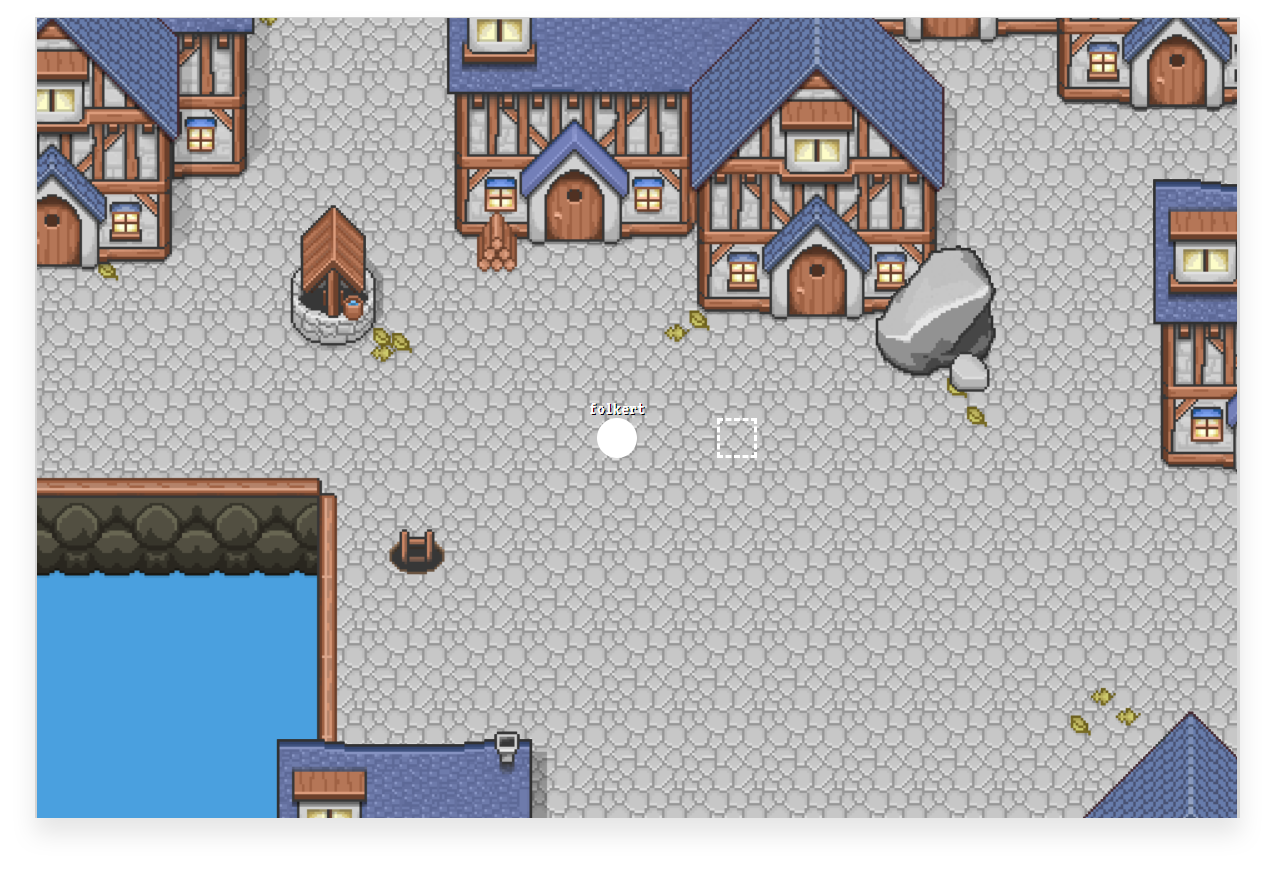
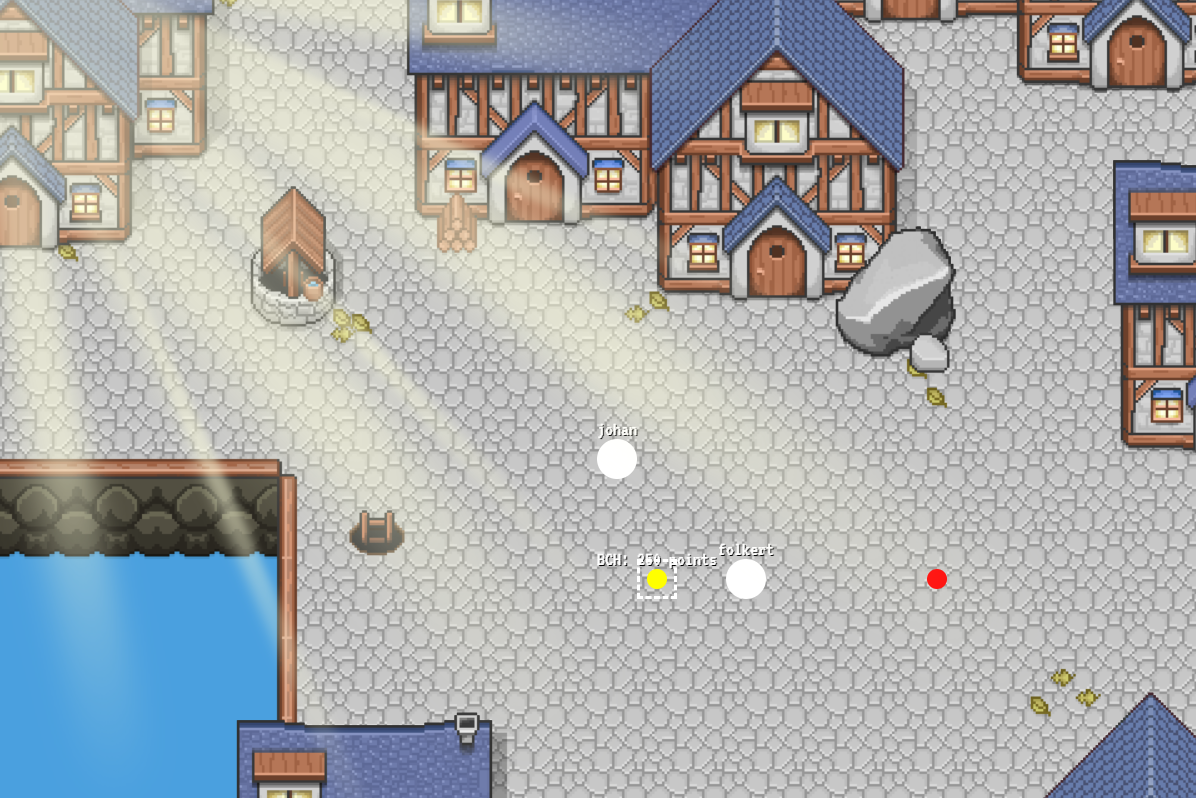
Updated README and docs

diff --git a/README.md b/README.md
@@ -1,21 +1,194 @@
 # Real-Time Web @cmda-minor-web · 2018-2019
 
 ## Summary
-Simple MMO browser game based on web sockets
+Simple MMO browser game based on web sockets. You can walk around a map and play against others to collect as many coins as possible while evading bombs from other players.
+
+![Screenshot](docs/screenshot_1.png)
+
+## Table of contents
+1. [Install](#install)
+2. [Demo](#demo)
+
+## Install
+Fork this project, then execute the following commands in your terminal:
+```bash
+## clone the github repo to your local environment
+git clone https://github.com/YOUR-GH-USERNAME/real-time-web-1819.git
+
+## Navigate to newly created project folder
+cd real-time-web-1819
+
+## Install dependencies
+npm install
+
+## Start live server
+npm run dev
+```
+
+## Demo
+Check the live demo [here](https://webdev-weatherworld.herokuapp.com)
 
 ## Concept
+The goal of this online multiplayer game is to collect as many high valued coins and hit as many other players with your bombs as you can, so you will have the most points in a room!
+There are multiple game rooms. Every game room corresponds to a specific city in the world (currently Amsterdam and London).
+The rooms change their appearance based on the weather in the respective cities the room is based on.
+
+Every 4 seconds a coin spawns in the room on a random location. The points picking one of these coins up depends on the type of coin and its corresponding current cryptocurrency value. The higher the value, the less likely it is to spawn.
+
+When a player walks through an explosion from a bomb you dropped, you are awarded 1000 points while the affected player loses 1000 points (or gets their points reset to 0 if they have less than 1000 points.)
+
+The goal of the game is to stay the highest scoring player in the game room while you are online.
+
 
 ## API Description
-I make use of the weather API
+### Openweathermap
+The [openweathermap API](https://openweathermap.org/api) is an api that delivers current weather from specific cities or places you request. The data is updated frequently, with the maximum update time being an hour.
+
+Connection is made by using an API key.
+
+The data returned is JSON, giving full detail of the current weather in the requested place(s). The connection with the api to the server consists of polling get requests every 5 minutes.
+
+#### API Response
+Per requested location, the response gives back a JSON object like this:
+```js
+[
+  {
+    "coord":{"lon":-0.13,"lat":51.51},
+    "sys": {
+      "type":1,
+      "id":5091,
+      "message":0.0034,
+      "country":"GB",
+      "sunrise":1485762036,
+      "sunset":1485794875
+    },
+    "weather": [
+      {"id":701,"main":"Mist","description":"mist","icon":"50d"},
+      {"id":300,"main":"Drizzle","description":"light intensity drizzle","icon":"09d"}
+    ],
+    "main": {
+      "temp":7,
+      "pressure":1012,
+      "humidity":81,
+      "temp_min":5,
+      "temp_max":8
+    },
+    "visibility":10000,
+    "wind":{"speed":4.6,"deg":90},
+    "clouds":{"all":90},
+    "dt":1485793175,
+    "id":2643743,
+    "name":"London"
+  },
+  {
+    ...
+  }
+]
+```
+
+In the server I reformat that to the following, which get's saved in the database:
+```js
+[
+  {
+    "weather": "mist"
+    "temp": 7,
+    "wind": {"speed":4.6,"deg":90},
+    "clouds": {"all":90},
+    "name": "london"
+  },
+  {
+    ...
+  }
+]
+```
+
+
+### Cryptocompare
+The [cryptocompare API](https://min-api.cryptocompare.com/) is an api that delivers current prices for almost all cryptocurrencies.
+This game uses the prices for Bitcoin, Bitcoin cash and Ethereum.
+The prices for these currencies update every 2 seconds.
+
+Connection with the API requires an API key.
+
+The data returned is JSON, giving full detail of the current weather in the requested place(s). The connection with the api to the server consists of polling get requests every 30 minutes, because the free plan includes a maximum of 100.000 requests per month, which equals around ~2.3 requests per hour when the server is constantly live.
+
+#### API Response
+The API gives the following response for the request for BTC, BTH and ETH (values in euro):
+```js
+{
+  BTC: 4893.23,
+  BTH: 247.01,
+  ETH: 149.85,
+}
+```
+
+Which i refactor on the server to:
+```js
+[
+  {
+    name: 'BTC',
+    price: 4893.23
+  },
+  {
+    name: 'BTH',
+    price: 247.01
+  },
+  {
+    name: 'ETH',
+    price: 149.85
+  }
+]
+```
+
 
 ## Most important screen
 ![Screenshot](docs/screenshot_1.png)
 
 ## Data life cycle
+### API data life cycle
+![Data life cycle diagram](docs/rt_diagram_week3_api.png)
+
+<details>
+<summary>Description of data objects</summary>
+
+![Objects](docs/rt_diagram_week3_api-extras.png)
+</details>
+
+### Login data life cycle
+![Login life cycle diagram](docs/rt_diagram_week3_login.png)
+
+### Game events data life cycle
+
+<details>
+<summary>
+Move event
+</summary>
+
+![Player event move](docs/rt_diagram_week3_playerevents_move.png)
+</details>
+
+<details>
+<summary>
+Bomb event
+</summary>
+
+![Player event bomb](docs/rt_diagram_week3_playerevents_bombs.png)
+</details>
+
+<details>
+<summary>
+Coin event
+</summary>
+
+![Game event coin](docs/rt_diagram_week3_playerevents_coins.png)
+</details>
+
+## Possible extensions
 
 
-## Fun
-trackpad space gives delay on click trackpad windows laptop > settings mousepad sensitivity to highest
+## Credits
+- [browserquest by mozilla](https://github.com/mozilla/BrowserQuest) - Open source graphics & sprites
+- [bgrins](https://github.com/bgrins) - awesome javascript implementation of the A* pathfinding algorithm
 
 ## License
 [MIT](LICENSE) @ [FollyWolly](https://github.com/follywolly)
